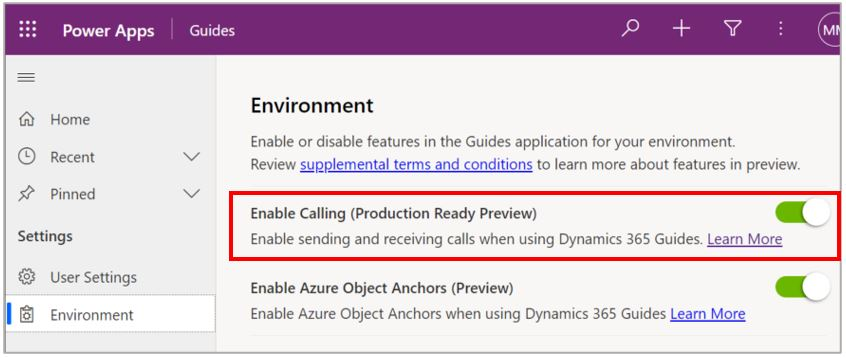
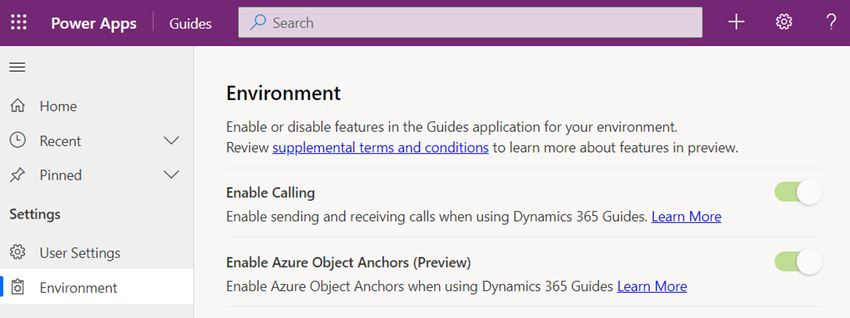
Remove preview on enable calls

Changed region(s): [[0.0, 0.0, 1.0, 0.9906], [0.2459, 0.2547, 0.461, 0.3396], [0.1844, 0.4245, 0.2459, 0.4528]]

diff --git a/mr-docs/guides/admin-enable-calls.md b/mr-docs/guides/admin-enable-calls.md
@@ -2,21 +2,21 @@
 author: Mamaylya
 description: Learn how to enable or disable calling in a Dynamics 365 Guides environment 
 ms.author: mamaylya
-ms.date: 10/17/2022
+ms.date: 12/2/2022
 ms.topic: article
 title: Enable or disable calling for a Dynamics 365 Guides environment
-ms.reviewer: v-bholmes
+ms.reviewer: v-wendysmith
 ---
 
 # Enable or disable calling in a Dynamics 365 Guides environment
 
 Calling in Microsoft Dynamics 365 Guides is enabled by default. When calling is enabled, a Dynamics 365 Guides HoloLens user can call a remote collaborator. The remote collaborator can join the call using Microsoft Teams desktop (PC or Mac) or the Teams mobile app. During the call, the remote collaborator can see everything seen by the Dynamics 365 Guides user, including holograms and the real world behind the holograms.
 
-If you're an admin for Dynamics 365 Guides, you can enable or disable calling for a user in a specific Dynamics 365 Guides environment. Enabling or disabling calling for a specific environment is useful:
+If you're an admin for Dynamics 365 Guides, enable or disable calling for a user in a specific Dynamics 365 Guides environment. Enabling or disabling calling for a specific environment is useful:
 
 - When operators or authors do not need to work with remote collaborators. 
 
-- You don't want HoloLens users to be able to inadvertently reveal proprietary through a call. 
+- You don't want HoloLens users to be able to inadvertently reveal proprietary information through a call. 
 
 [Learn about licensing requirements and limitations when making calls in Dynamics 365 Guides](requirements.md)
 
